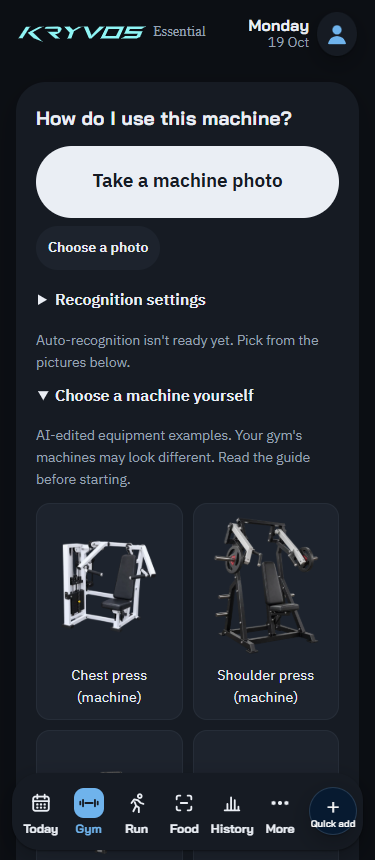
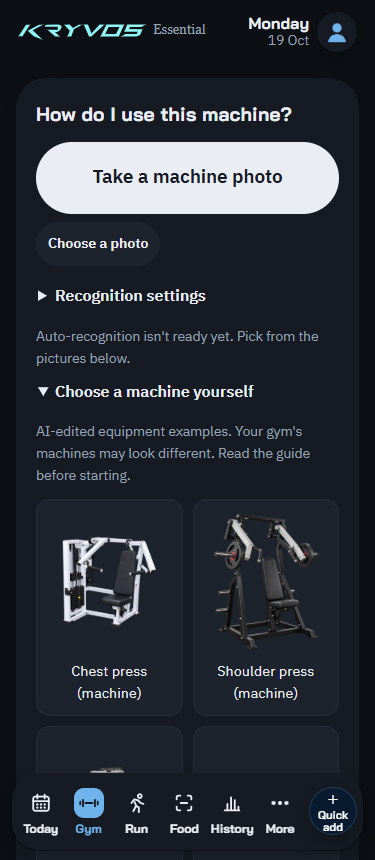
fix(ui): restore warning colors and scope touch targets

diff --git a/index.html b/index.html
@@ -17,7 +17,7 @@
 <link rel="preconnect" href="https://fonts.googleapis.com">
 <link rel="preconnect" href="https://fonts.gstatic.com" crossorigin>
 <link href="https://fonts.googleapis.com/css2?family=Bai+Jamjuree:wght@300;400;500;600;700&family=IBM+Plex+Sans+Thai:wght@300;400;500;600&display=swap" rel="stylesheet" media="print" onload="this.media='all'">
-<link rel="stylesheet" href="theme.css?v=62">
+<link rel="stylesheet" href="theme.css?v=63">
 <style>
   * { box-sizing: border-box; -webkit-tap-highlight-color: transparent; }
   body { margin: 0; background: var(--bg); color: var(--ink); font-family: var(--body); font-size: 16px; line-height: 1.6; -webkit-font-smoothing: antialiased; }
@@ -201,7 +201,7 @@
   .qf:hover { background: var(--line); }
   .calc { margin-top: 10px; }
   .calc > summary { cursor: pointer; color: var(--blue); font-weight: 600; font-size: .92rem; }
-  .ring .lf.over { color: var(--blue); font-weight: 600; }
+  .ring .lf.over { color: var(--yellow); font-weight: 600; }
   .onb .cover { width: calc(100% + 40px); height: auto; margin: -22px -20px 14px; aspect-ratio: 16 / 10; object-fit: cover; object-position: 50% 52%; display: block; border-radius: 26px 26px 0 0; }
 
   /* today: one list, each exercise carries its own sets */
@@ -360,7 +360,7 @@
   .shot { display: grid; grid-template-columns: 84px 1fr; gap: 12px; padding: 14px 0 4px; border-top: 1px solid var(--line); margin-top: 14px; }
   .shot img { width: 84px; height: 84px; object-fit: cover; border-radius: 14px; background: var(--sunk); }
   .shot .st { font-size: 0.88rem; color: var(--soft); }
-  .shot .err { color: var(--soft); font-size: 0.92rem; }
+  .shot .err { color: var(--red); font-size: 0.92rem; }
   .found { display: grid; gap: 6px; margin: 6px 0 0; }
   .found label { display: flex; gap: 8px; align-items: flex-start; font-size: 0.92rem; cursor: pointer; }
   .found input { width: 20px; height: 20px; accent-color: var(--blue); flex: none; margin-top: 2px; }
@@ -481,8 +481,8 @@
   .sh-img:not([src]) { display: none; }
   .sh-name { text-align: center; font-family: var(--head); font-size: 1.2rem; font-weight: 600; margin: 8px 0 2px; line-height: 1.35; }
   .sh-msg { text-align: center; margin: 18px 0 8px; }
-  .sh-msg.err { color: var(--soft); }
-  .sheet.dark .sh-msg.err { color: var(--soft); }
+  .sh-msg.err { color: var(--red); }
+  .sheet.dark .sh-msg.err { color: var(--red); }
   .sh-sec { font-family: var(--head); font-weight: 700; font-size: 1.05rem; margin: 20px 0 6px; padding-left: 10px; border-left: 3px solid currentColor; line-height: 1.25; }
   .sheet.dark .hint, .sheet.dark small { color: var(--soft); }
   .sh-ex { background: var(--card); border: 1px solid var(--line); border-radius: 22px; padding: 16px; margin: 14px 0; overflow-wrap: anywhere; }
@@ -643,7 +643,7 @@
   .setup-stepper button { width: 44px; height: 44px; border: 0; border-radius: 50%; background: var(--card); color: var(--blue); font-size: 1.6rem; cursor: pointer; }
   .setup-stepper input { min-width: 0; width: 100%; font-size: 2.4rem; font-weight: 300; border: 0; background: transparent; text-align: center; }
   .setup-bottom { flex: none; padding: 8px 0 calc(16px + env(safe-area-inset-bottom)); background: var(--bg); border-top: 1px solid var(--line); }
-  .setup-bottom #setup-error { margin: 0; color: var(--soft); font-size: .8rem; }
+  .setup-bottom #setup-error { margin: 0; color: var(--red); font-size: .8rem; }
   .setup-bottom #setup-error:not(:empty) { margin-bottom: 8px; }
   .setup-bottom .btn { min-height: 54px; margin: 0; background: linear-gradient(110deg, var(--setup-start), var(--setup-end)); color: var(--hero-ink); }
   .setup-bottom .btn:disabled { background: var(--line); color: var(--soft); cursor: default; }
@@ -670,7 +670,7 @@
   @media (max-height: 640px) { .setup-content { padding-top: 12px; } .setup-brand-image { max-height: 180px; margin-top: 12px; } .setup-logo { margin-bottom: 16px; } [data-step="welcome"] .setup-content { justify-content: flex-start; } }
   @media (prefers-reduced-motion: reduce) { .setup-content { animation: none; } }
 </style>
-<link rel="stylesheet" href="simple-flow.css?v=62">
+<link rel="stylesheet" href="simple-flow.css?v=63">
 </head>
 <body class="home">
 <div class="app">
@@ -1121,10 +1121,10 @@
 </div>
 <div class="toast" id="toast" role="status" aria-live="polite"></div>
 
-<script src="en.js?v=62"></script>
-<script src="machines-config.js?v=62"></script>
-<script src="machine-recognition.js?v=62"></script>
-<script src="machine-photos.js?v=62"></script>
+<script src="en.js?v=63"></script>
+<script src="machines-config.js?v=63"></script>
+<script src="machine-recognition.js?v=63"></script>
+<script src="machine-photos.js?v=63"></script>
 <script>
   /* ---------- language ----------
      Thai is written in the code. English comes from en.js (EN, keyed by the exact Thai text; EN_UI for page text
@@ -3045,7 +3045,7 @@
   function ring(label, val, target, unitTxt, color, cap) {
     var r = 46, c = 2 * Math.PI * r, pct = target ? Math.min(1, val / target) : 0, done = !cap && val >= target, over = cap && val > target;
     var left = Math.max(0, Math.round(target - val));
-    if (over) color = "var(--blue)";
+    if (over) color = "var(--yellow)";
     return '<div class="ring' + (done ? " done" : "") + '"><svg viewBox="0 0 112 112" role="img" aria-label="' + label + " " + Math.round(val) + t(" จาก ") + Math.round(target) + " " + unitTxt + '">' +
       '<circle class="trk" cx="56" cy="56" r="' + r + '" fill="none" stroke-width="10"/>' +
       '<circle cx="56" cy="56" r="' + r + '" fill="none" stroke="' + (done ? "var(--green)" : color) + '" stroke-width="10" stroke-linecap="round" stroke-dasharray="' + (c * pct).toFixed(1) + " " + c.toFixed(1) + '" transform="rotate(-90 56 56)"/>' +

diff --git a/simple-flow.css b/simple-flow.css
@@ -1,6 +1,4 @@
 /* Compact primary tasks; retain secondary controls in native disclosures. */
-button { min-height: 44px; }
-a { display: inline-flex; align-items: center; min-height: 44px; max-width: 100%; overflow-wrap: anywhere; vertical-align: middle; }
 header.top { padding-top: 12px; padding-bottom: 6px; }
 .home-hero { padding-bottom: 10px; }
 .home-week { min-height: 68px; margin-bottom: 8px; }
@@ -13,7 +11,7 @@ header.top { padding-top: 12px; padding-bottom: 6px; }
 #start-workout { margin-top: 12px; min-height: 52px; }
 .symptom-summary { display: flex; align-items: center; gap: 6px; min-height: 44px; margin-top: 8px; padding: 0 10px; border-radius: 12px; background: var(--home-pill); color: var(--ink); font-size: .82rem; text-align: left; }
 #symptom-summary-text { flex: 1; min-width: 0; white-space: nowrap; overflow: hidden; text-overflow: ellipsis; }
-.symptom-summary .linkbtn { flex: 0 0 auto; min-width: 44px; padding: 0 2px; }
+.symptom-summary .linkbtn { min-height: 44px; flex: 0 0 auto; min-width: 44px; padding: 0 2px; }
 .symptom-summary.pain { background: var(--red-bg); color: var(--red-ink); }
 #ci { scroll-margin-top: 12px; }
 #draft-status { margin: 6px 0 0; }
@@ -25,7 +23,7 @@ summary { cursor: pointer; min-height: 44px; padding: 10px 2px; font-weight: 600
 .simple-options .q { margin-top: 8px; }
 .secondary-options > section, #gemini-option > section { box-shadow: none; margin: 8px 0 0; padding: 8px 0; border: 0; }
 .machine-camera { min-height: 72px; font-size: 1.18rem; }
-#machine-gallery, #machine-prepare { width: auto; max-width: 100%; padding: 8px 12px; font-size: .88rem; margin-top: 8px; }
+#machine-gallery, #machine-prepare { min-height: 44px; width: auto; max-width: 100%; padding: 8px 12px; font-size: .88rem; margin-top: 8px; }
 #machine-settings { margin-top: 8px; }
 .machine-grid { display: grid; grid-template-columns: repeat(2, minmax(0, 1fr)); gap: 10px; margin: 12px 0; }
 .machine-card { min-width: 0; display: flex; flex-direction: column; align-items: center; justify-content: flex-start; gap: 8px; background: var(--sunk); border: 1px solid var(--line); border-radius: 14px; padding: 10px 8px; cursor: pointer; text-align: center; }
@@ -45,6 +43,6 @@ summary { cursor: pointer; min-height: 44px; padding: 10px 2px; font-weight: 600
 #plan { scroll-margin-top: 12px; }
 .cap, .mini, .linkbtn { min-height: 44px; }
 nav.tabs .quick-plus { display: flex; flex-direction: column; justify-content: center; align-items: center; gap: 1px; font-size: inherit; line-height: 1; }
-.quick-plus-icon { font-size: 1.5rem; line-height: 1; }
-#quick-plus-label { font-size: .59rem; font-weight: 600; line-height: 1.1; white-space: nowrap; }
+.quick-plus-icon { font-size: 1.25rem; line-height: 1; }
+#quick-plus-label { font-size: .7rem; font-weight: 600; line-height: 1.05; white-space: normal; max-width: 100%; text-align: center; }
 @media (prefers-reduced-motion: reduce) { html { scroll-behavior: auto; } }

diff --git a/sw.js b/sw.js
@@ -1,6 +1,6 @@
 // Offline support: keep the app shell cached so it opens in the gym without internet.
 // Bump VERSION whenever index.html changes so phones pick up the new version.
-var VERSION = "train-today-v62";
+var VERSION = "train-today-v63";
 var SHELL = ["machine-photos.js", "assets/machines/cutouts/cable-station.webp", "assets/machines/cutouts/calf-raise.webp", "assets/machines/cutouts/chest-press.webp", "assets/machines/cutouts/dumbbells.webp", "assets/machines/cutouts/exercise-mat.webp", "assets/machines/cutouts/lat-pulldown.webp", "assets/machines/cutouts/leg-extension.webp", "assets/machines/cutouts/leg-press.webp", "assets/machines/cutouts/pec-deck.webp", "assets/machines/cutouts/seated-leg-curl.webp", "assets/machines/cutouts/seated-row.webp", "assets/machines/cutouts/shoulder-press.webp", "./", "index.html", "en.js", "theme.css", "simple-flow.css", "machines-config.js", "machine-recognition.js", "assets/machines.svg", "manifest.json", "cover.jpg", "icon-192.png", "icon-512.png", "icon-maskable-512.png", "apple-touch-icon.png", "assets/onboarding/athlete-male.webp", "assets/onboarding/athlete-female.webp", "assets/onboarding/runner.webp", "assets/onboarding/runner-mark.png"];
 
 // A read-only release probe, so update checks verify the worker controlling this page.

diff --git a/docs/VALIDATION.md b/docs/VALIDATION.md
@@ -191,8 +191,8 @@ just functional browser checks while iterating; final validation used the full s
    the original illustrated manual grid remains open. Status copy is conversational
    Thai/English and does not describe an absent model as ready.
 2. Ordinary links and video-link hover use blue. Delete actions remain red;
-   pain/unsafe-exercise/worn-shoe warnings retain red. Informational over-target
-   calorie color and recoverable form/photo errors no longer imply danger. Only
+   pain/unsafe-exercise/worn-shoe warnings and form/photo errors retain red.
+   Over-target calorie presentation uses yellow. Only
    color presentation changed; calculations and error handling are unchanged.
 3. A single-line symptom summary below Start reads existing `S.body`, with no
    new application state. Pain is first and uses red background/ink. Edit opens
@@ -200,14 +200,14 @@ just functional browser checks while iterating; final validation used the full s
    respecting reduced motion. Existing full pain warnings remain visible.
 4. Quick add has an explicit bilingual accessible name and a permanent short
    label below its icon. No first-use flag or other storage key was introduced.
-5. Service worker and all six CSS/script release tags bumped together to **v62**.
+5. Service worker and all six CSS/script release tags bumped together to **v63**.
 
 - `node --test "tests/*.test.mjs"`: **260/260 passed**, no skips. Five additional
   tests cover no symptoms, soreness, painful joints, mixed symptoms/no mutation,
   and Edit focus/reduced motion. Existing changed-copy assertions were updated to
   the new expected text while retaining their behavior checks.
 - `tests/browser-ui-clarity.cjs`: **16/16** sizes/languages/themes passed, including
-  44px button/link targets, blue links, collapsed settings, existing grid, symptom
+  44px targets for controls changed in this PR, blue links, collapsed settings, existing grid, symptom
   updates/red tokens/Edit focus, quick-add dialog/return focus and no overflow.
 - Original `tests/browser-simple-flow.cjs`: **16/16** layouts plus equipment,
   offline/manual, rest timer, focus and controlled local/remote regression flows
@@ -223,3 +223,9 @@ just functional browser checks while iterating; final validation used the full s
   only secondary settings moved into a disclosure. No trained recognition model
   added, no worker redeploy needed, no actual iPhone/Android testing. This separate
   UI PR is submitted for owner review and is not merged automatically.
+
+### PR #20 review corrections (v63)
+
+- Restored red error messages, including dark machine sheets; calorie over-target text and ring use yellow. Ordinary links remain blue.
+- Removed global button/link sizing. Scoped new target sizing to the changed controls. Quick add label is .7rem, wraps within its button, and passes font/containment checks at all 16 viewport/language/theme combinations including 320px.
+- Re-ran all 260 Node tests, both 16-case browser suites, and local PWA upgrade checks; refreshed the four after screenshots. No algorithm, user-data, backend or model changes. No physical phone testing.
